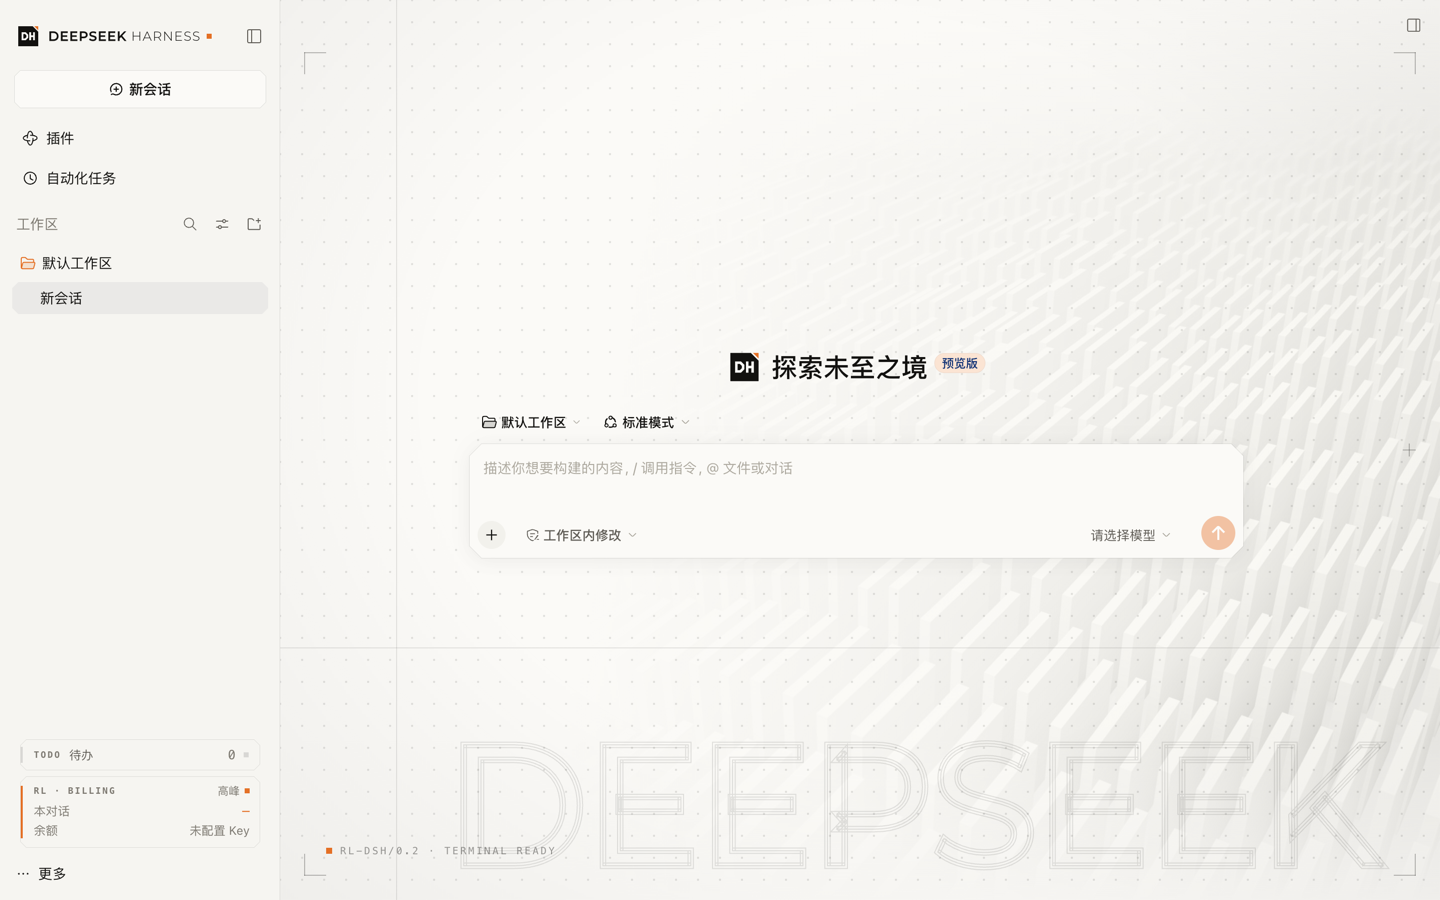
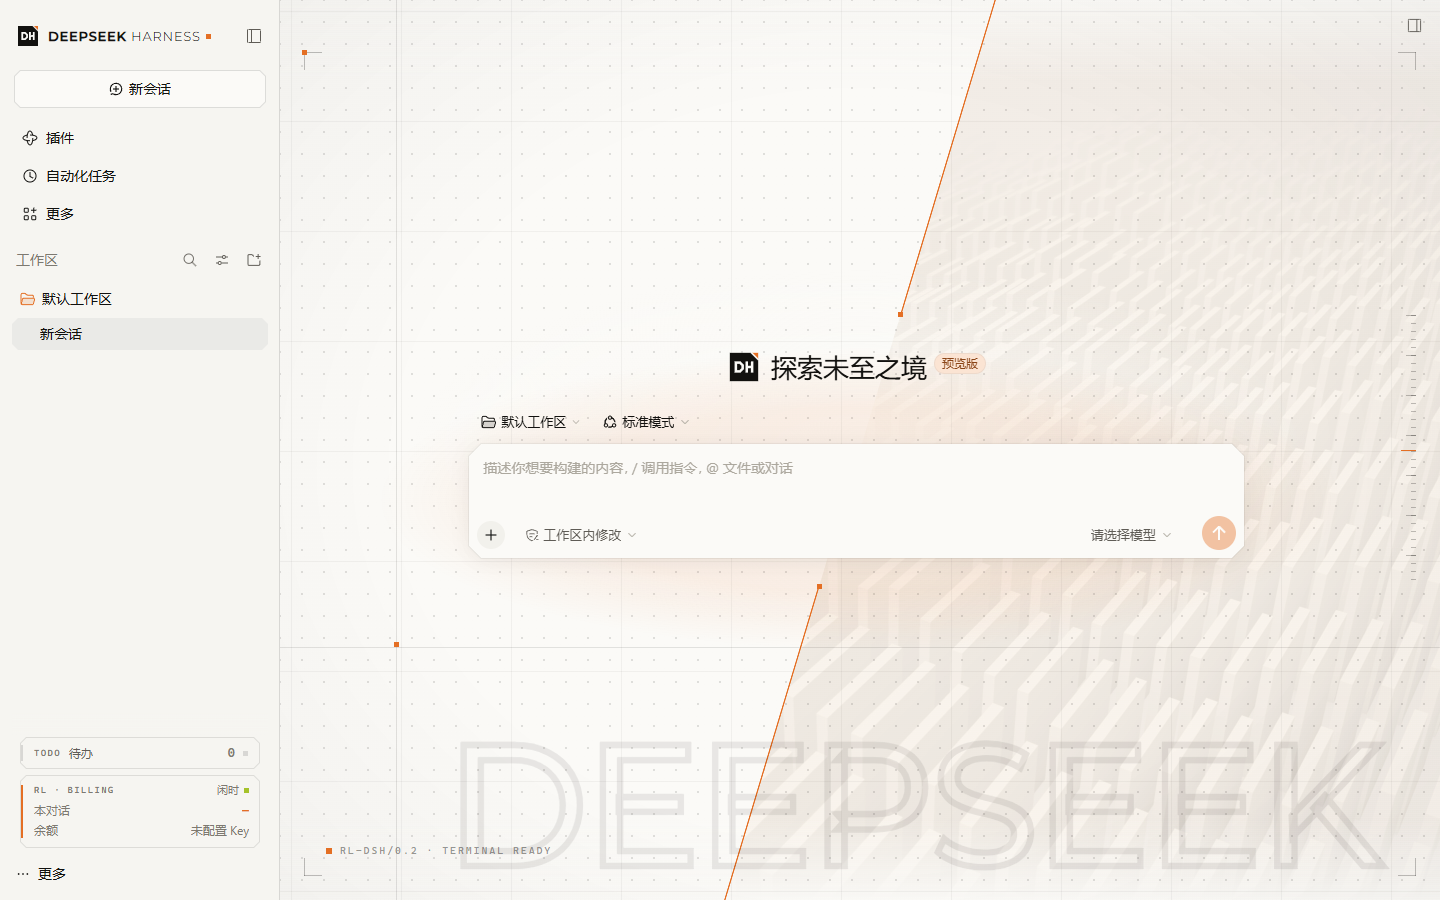
docs: refresh home screenshots on Harness 0.2.1-rc.3

diff --git a/README.md b/README.md
@@ -29,7 +29,7 @@ DeepSeek Harness 的莱茵生命风格主题，包括开屏动画、界面配色
 | 开屏动画 | ![浅色开屏动画](screenshots/splash-light.png) | ![深色开屏动画](screenshots/splash-dark.png) |
 | 主界面 | ![浅色主界面](screenshots/home-light.png) | ![深色主界面](screenshots/home-dark.png) |
 
-开屏动画截图来自本仓库的预览页面。主界面截图来自 DeepSeek Harness 网页版 0.2.1-rc.2 的全新配置（未登录、未配置 API Key），使用默认的莱茵橙强调色和暖白底色，空白页背景为「完整开屏底」，左下角是待办条和计费卡片。由于没有可用的模型，截图中不显示推理强度滑块。
+开屏动画截图来自本仓库的预览页面。主界面截图来自 DeepSeek Harness 网页版 0.2.1-rc.3 的全新配置（未登录、未配置 API Key），使用默认的莱茵橙强调色和暖白底色，空白页背景为「完整开屏底」，左下角是待办条和计费卡片。由于没有可用的模型，截图中不显示推理强度滑块。
 
 ## 环境要求
 

diff --git a/CHANGELOG.md b/CHANGELOG.md
@@ -4,8 +4,13 @@
 
 ## [未发布]
 
+### 修复
+
+- **Windows 上的等宽字体**：待办条、计费卡片、费用页面和莱茵通知里的英文标签与数字在 Windows 上会退回 Courier New，现在改用 Cascadia Mono 或 Consolas，与 macOS 上的观感一致。
+
 ### 变更
 
+- README 主界面截图更新为 DeepSeek Harness 0.2.1-rc.3 上的当前样式。
 - 新增 GitHub Actions 工作流 `publish`：在 Actions 页面点一下即可把已发布的版本同步到 npm（通过 npm 可信发布，附带来源证明）。
 
 ## [0.2.7] - 2026-10-24
